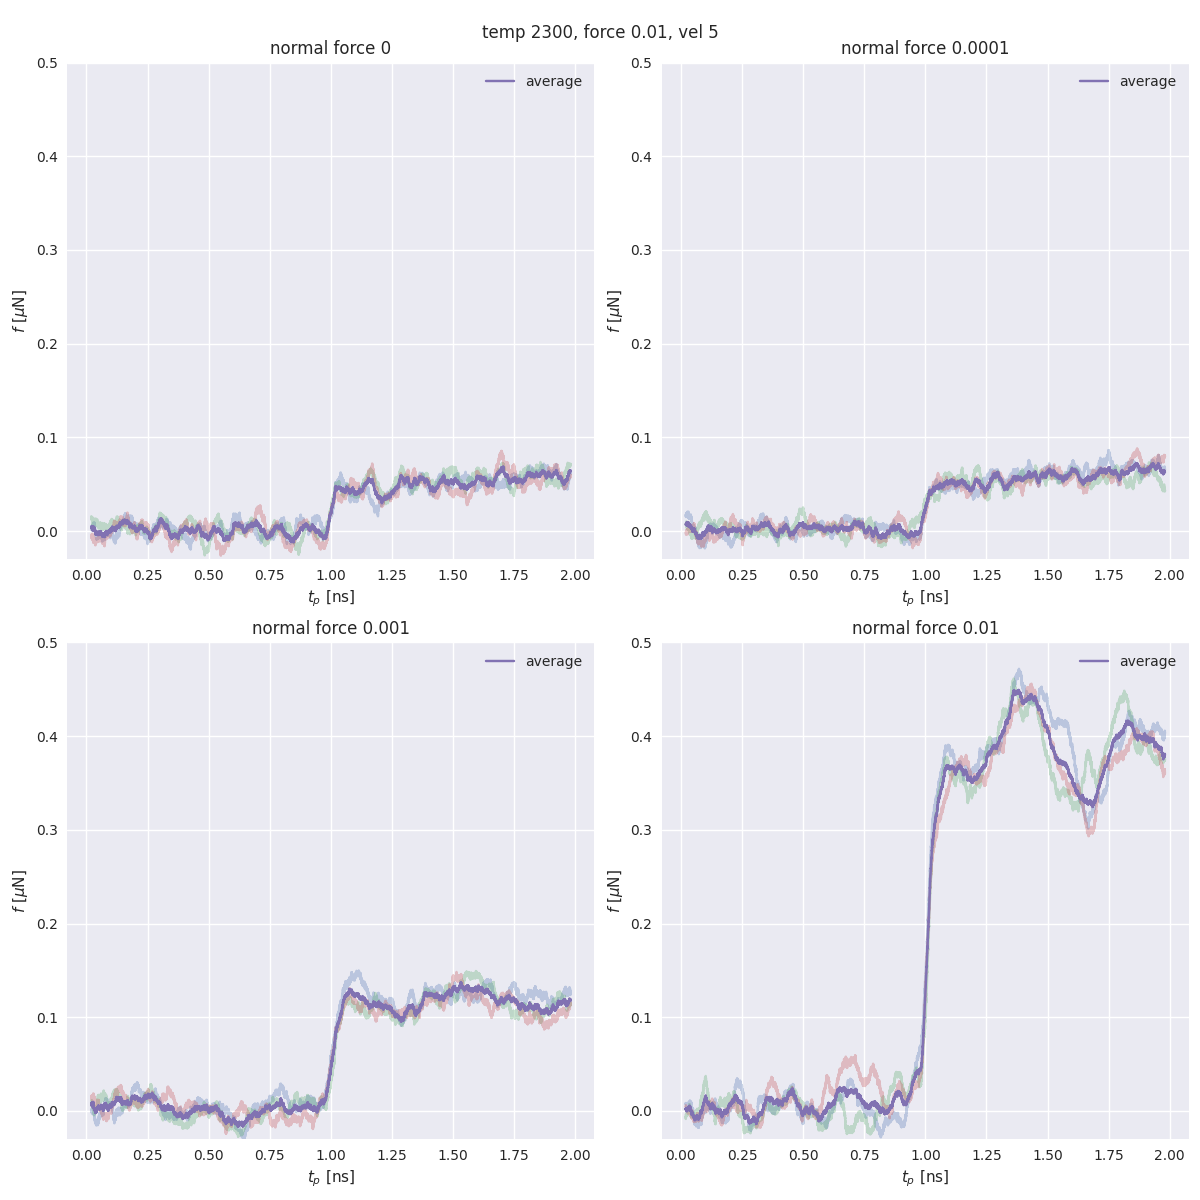
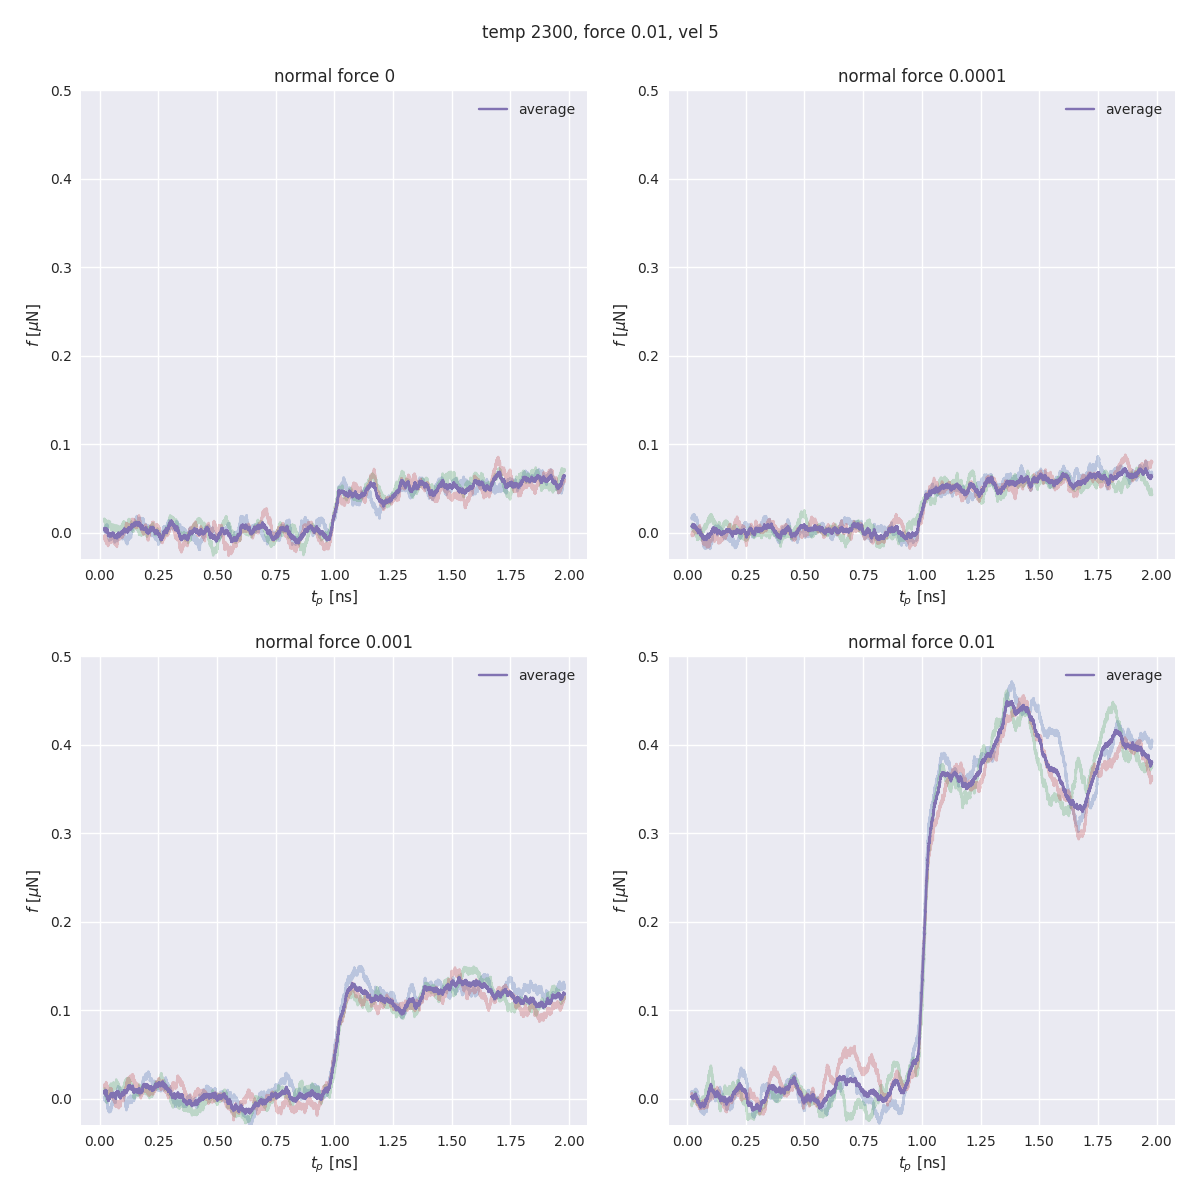
more padding

diff --git a/python/plot/plot_load_curves.py b/python/plot/plot_load_curves.py
@@ -577,7 +577,7 @@ def load_vs_normal_force():
     
     plt.suptitle(f"temp {temp}, force {force}, vel {vel}")
     plt.legend()
-    fig.tight_layout(pad=0.8)
+    fig.tight_layout(pad=1.8)
     plt.savefig(fig_dir + 'varying_normalforce_chess.png')
 
 
